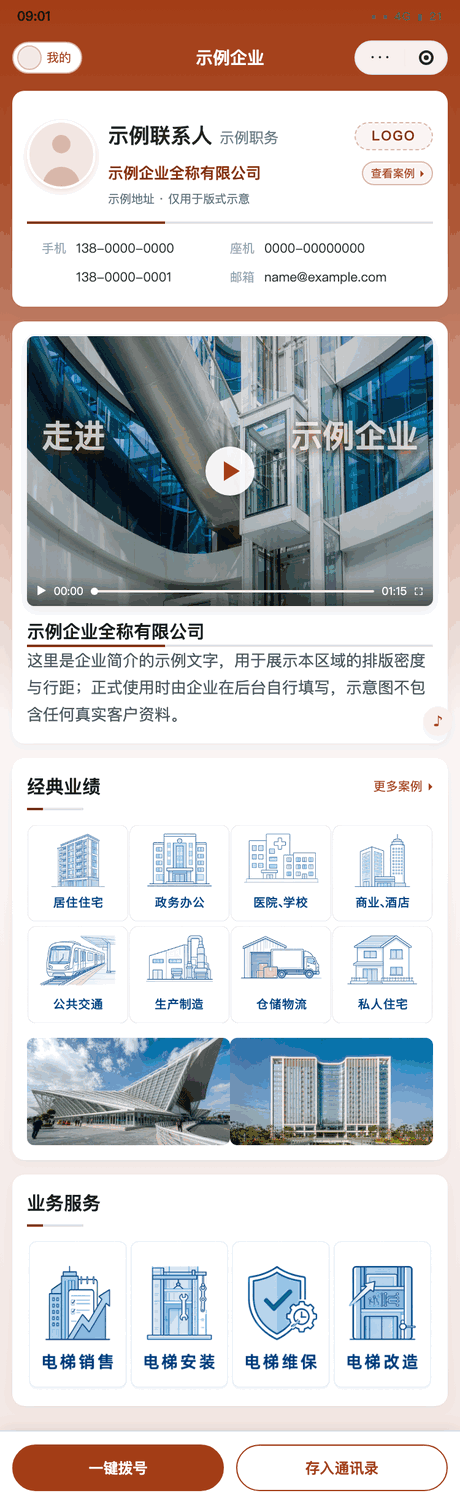
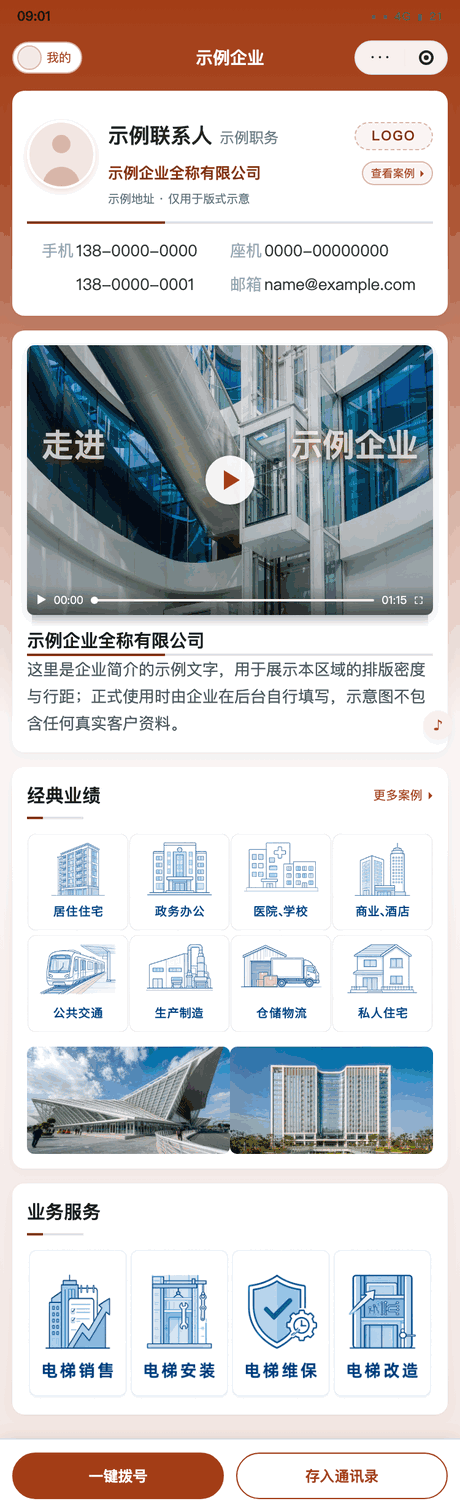
feat(miniprogram): 默认风格联系方式字号 +2rpx，还原视频下方阴影分割条
客户按设计稿复核提的两处，都只加在 default：

① 手机 / 座机 / 邮箱的标签与数值从 24rpx 提到 26rpx（约 +1px），
   三条独立规则分别写，避免漏掉邮箱那一档；其他三款继续吃基线。
② 视频封面与公司名称之间补一条浅灰渐隐阴影带，挂在 .cv-wrap 的
   ::after 上、top:100%——不占布局高度，公司名称不会被推下去，
   pointer-events:none 也不挡「跳转打开」的点击。用中性灰 rgba(30,42,53)
   而不是主题蓝：阴影不该随品牌换色。

预览脚本给视频包同名 .cv-wrap 容器，风格规则原文注入后阴影与字号
自动进图；以仓库 HEAD 的图为基线做逐像素比对，只有 default 变了
（高度 +7px），ink / warm / teal 三款逐字节相同。

新守门 default_contact_video.spec.ts（5 例）。反向验证四条：
邮箱字号漏改红 1、删阴影条红 2、阴影条误写全局红 3、预览不同构红 1。
真机验收加 T38。

diff --git a/miniprogram/tests/default_contact_video.spec.ts b/miniprogram/tests/default_contact_video.spec.ts
@@ -1,0 +1,93 @@
+// 默认标准风格的两处还原（2026-11-19 客户反馈）：
+//   ① 手机 / 座机 / 邮箱联系方式字体偏小，各 +2rpx（24→26rpx）；
+//   ② 原设计稿里宣传视频与下方公司名称之间有一条阴影分割条，需要还原。
+//
+// 两条都只加在 default。阴影条挂在视频容器的 ::after 上、top:100%，
+// 不占布局高度——否则公司名称会被往下推，那就不是「分割条」而是多了一行间距。
+// 预览脚本必须与真机同构：它把 app.wxss 的 .wc-style-* 规则原文注入出图 CSS，
+// 所以 HTML 里要有同名 .cv-wrap 容器，阴影条才会出现在示意图上。
+import { describe, expect, it } from 'vitest'
+import { readFileSync } from 'node:fs'
+import { dirname, resolve } from 'node:path'
+import { fileURLToPath } from 'node:url'
+
+const HERE = dirname(fileURLToPath(import.meta.url))
+const REPO = resolve(HERE, '../..')
+const WXSS = readFileSync(resolve(REPO, 'miniprogram/app.wxss'), 'utf-8')
+const SCRIPT = readFileSync(resolve(REPO, 'scripts/gen_theme_previews.py'), 'utf-8')
+
+/** 行首锚定 + 整行收尾，避免抓到后缀变体或注释里的同名选择器 */
+function ruleBody(src: string, selector: string): string | undefined {
+  const esc = selector.replace(/[.*+?^${}()|[\]\\]/g, '\\$&')
+  const tail = '(?:\\/\\*[\\s\\S]*?\\*\\/|\\/\\/[^\\n]*)?[ \\t]*(?:\\n|$)'
+  const m = src.match(new RegExp('(?:^|\\n)[ \\t]*' + esc + '[ \\t]*\\{([^}]*)\\}[ \\t]*' + tail))
+  return m ? m[1] : undefined
+}
+function decl(body: string | undefined, prop: string): string {
+  if (!body) return ''
+  const m = body.match(new RegExp('(?:^|;)\\s*' + prop + '\\s*:\\s*([^;]+)'))
+  return m ? m[1].trim() : ''
+}
+
+describe('默认标准风格：联系方式字号与视频底部分割条', () => {
+  it('量尺自检：四条目标规则都抓得到，不会在别的样本上空判', () => {
+    for (const sel of [
+      '.emp-card .ec-label',
+      '.wc-style-default .emp-card .ec-label',
+      '.wc-style-default .emp-card .ec-val',
+      '.wc-style-default .emp-card .ec-val-email',
+      '.wc-style-default .mp-profile .company-video .cv-wrap::after',
+    ]) {
+      expect(ruleBody(WXSS, sel), `${sel} 抓不到`).toBeTruthy()
+    }
+  })
+
+  it('联系方式三处 24→26rpx，且只改 default', () => {
+    expect(decl(ruleBody(WXSS, '.emp-card .ec-label'), 'font-size')).toBe('24rpx')
+    expect(decl(ruleBody(WXSS, '.emp-card .ec-val'), 'font-size')).toBe('24rpx')
+    expect(decl(ruleBody(WXSS, '.emp-card .ec-val-email'), 'font-size')).toBe('24rpx')
+    for (const sel of [
+      '.wc-style-default .emp-card .ec-label',
+      '.wc-style-default .emp-card .ec-val',
+      '.wc-style-default .emp-card .ec-val-email',
+    ]) {
+      expect(decl(ruleBody(WXSS, sel), 'font-size'), `${sel} 漏改`).toBe('26rpx')
+    }
+    // 其他三款没有任何联系方式字号覆盖，继续吃 24rpx 基线
+    expect(WXSS).not.toMatch(
+      /\.(?:wc-style-ink|wc-style-warm|wc-style-teal)[\s\S]{0,80}\.ec-(?:label|val|val-email)\s*\{[^}]*font-size/
+    )
+  })
+
+  it('阴影分割条：贴在视频下缘外侧，不占高度、不挡跳转点击', () => {
+    const shade = ruleBody(WXSS, '.wc-style-default .mp-profile .company-video .cv-wrap::after')
+    expect(decl(shade, 'content')).toBe('""')
+    expect(decl(shade, 'position')).toBe('absolute')
+    expect(decl(shade, 'top')).toBe('100%')
+    expect(decl(shade, 'height')).toBe('18rpx')
+    expect(decl(shade, 'left')).toBe('8rpx')
+    expect(decl(shade, 'right')).toBe('8rpx')
+    expect(decl(shade, 'pointer-events')).toBe('none')
+    expect(shade, '渐变阴影条而不是一条实色线').toContain('linear-gradient')
+    expect(shade, '阴影是中性灰，不随品牌主色变蓝').toContain('rgba(30, 42, 53, 0.22)')
+    expect(shade, '别把阴影染成主题色').not.toContain('--wc-primary-rgb')
+    // 容器必须可定位，否则 ::after 会跑到页面上而不是视频下缘
+    expect(decl(ruleBody(WXSS, '.company-video .cv-wrap'), 'position')).toBe('relative')
+  })
+
+  it('另外三款没有这条阴影条，也没有联系方式字号覆盖', () => {
+    expect(WXSS).not.toMatch(/\.wc-style-(?:ink|warm|teal)[\s\S]{0,100}\.cv-wrap::after\s*\{/)
+    // 更不能写成全局选择器——那样四款都会出现阴影条，只是没人说「其他风格不变」
+    expect(WXSS).not.toMatch(/(?:^|\n)[ \t]*\.company-video \.cv-wrap::after\s*\{/)
+  })
+
+  it('预览出图脚本同构：有同名容器，风格规则原文在通用 CSS 之后注入', () => {
+    expect(SCRIPT).toContain('<div class="cv-wrap">')
+    expect(SCRIPT).toContain('.company-video .cv-wrap { position: relative; }')
+    expect(SCRIPT).toContain('def read_layout_rules()')
+    // 注释里也提到 ${style_css}，取最后一次才是真正的注入点
+    expect(SCRIPT.lastIndexOf('${style_css}')).toBeGreaterThan(
+      SCRIPT.indexOf('.company-video .cv-wrap { position: relative; }')
+    )
+  })
+})

diff --git a/scripts/gen_theme_previews.py b/scripts/gen_theme_previews.py
@@ -597,6 +597,10 @@ ${tokens}
 
   /* ---- 公司简介：真实封面图 + 视频控件 + 黑色粗体公司名 + 4 行简介 ----
      .cv / .cv-video / .company-name / .intro 的高度与行距由布局规则注入。 */
+  /* 真机 .cv-wrap 是视频四种来源（腾讯 / 跳转 / MP4 / 封面）共用的定位容器，
+     标准款的阴影分割条加在它的 ::after 上（由 ${style_css} 注入），
+     这里必须同构，否则预览图看不到那条阴影。 */
+  .company-video .cv-wrap { position: relative; }
   .cv { position: relative; height: 220px; border-radius: var(--wc-r-card-bg);
         overflow: hidden; box-shadow: var(--wc-card-shadow-bg);
         /* 封面宽度不再恒等于卡片宽：teal 的「左图右文」把它压到 42%。
@@ -713,12 +717,14 @@ ${tokens}
 
   <div class="section mp-profile" data-sec="company">
     <div class="company-video">
+      <div class="cv-wrap">
       <div class="cv cover">
         <img src="assets/cover-company.jpg" alt="">
         <div class="cover-shade"></div>
         <div class="cover-word"><span>走进</span><span>${short_name}</span></div>
         <div class="play"></div>
         <div class="video-bar"><span>▶</span><span>00:00</span><span class="v-track"></span><span>01:15</span><span>⛶</span></div>
+      </div>
       </div>
     </div>
     <div class="pf-text">

diff --git a/docs/real-device-acceptance.md b/docs/real-device-acceptance.md
@@ -314,6 +314,8 @@
 
 - [ ] T37 **间距二次按风格分流**（2026-11-19 追加反馈）：同一租户、同一台真机，四个风格各截一张顶部名片卡，与上一版并排比对——**标准均衡**：姓名上方留白再高约 4px（从 8px 变 12px = 24rpx），手机号再右移约 4px（合计 12px / 24rpx），而**同一行的座机 / 邮箱左缘逐像素不动**；**紧凑信息**：联系表是单列四行，「座机」「邮箱」两行的文字左缘要与上面的「手机号」两行完全对齐（都缩进 16rpx），不能只有手机号缩进、下面两行留在原位；**暖色 / 青色**：姓名上方留白、手机号左缘、座机邮箱左缘全部与上一版逐像素一致——本轮改动曾分别出图做过字节比对，这两款的 44 组合预览图逐字节未变，真机上也应是同样结论。后台「名片页面样式」的 LOGO 小示意图与主题预览图按新值出图，客户照着调档位不能看到与真机不同的版式
 
+- [ ] T38 **默认标准风格联系方式字号与视频阴影分割条**（2026-11-19 客户反馈）：标准均衡首页顶部名片卡，「手机」「座机」「邮箱」的标签与号码文字都比上一版略大（24→26rpx，约 1px），三处都变，长邮箱仍不折行、不把号码挤出卡片；浅墨 / 暖色 / 青色的联系方式字号保持原样。同一风格往下看「公司简介」：视频封面下缘与粗体公司名称之间多了一条**贯穿视频大部分宽度的浅灰色渐隐阴影带**（中性灰，不随品牌主色变蓝），它是视频的视觉分隔，**不占布局高度**——公司名称与简介的位置和上一版逐像素一致，不能被往下推；视频来源选「跳转打开」时，这条带子也不该挡住点封面跳视频号。示意图（主题预览 44 组合）里同步出现同一条阴影与同样字号；其余三款风格的预览图逐像素未变，真机上也应如此
+
 ### C. 品牌配色预设色板（第二十五轮追加）
 
 - [ ] T11 8 款 `brand-*` 逐一真机切换并各保存一次：主色明显变化，**卡片圆角 / 按钮形态 / 投影质感与经典蓝逐项一致**；相邻两款（如绛红 vs 朱橘、靛蓝 vs 堇紫）能区分开，不是同一张图换个名字
